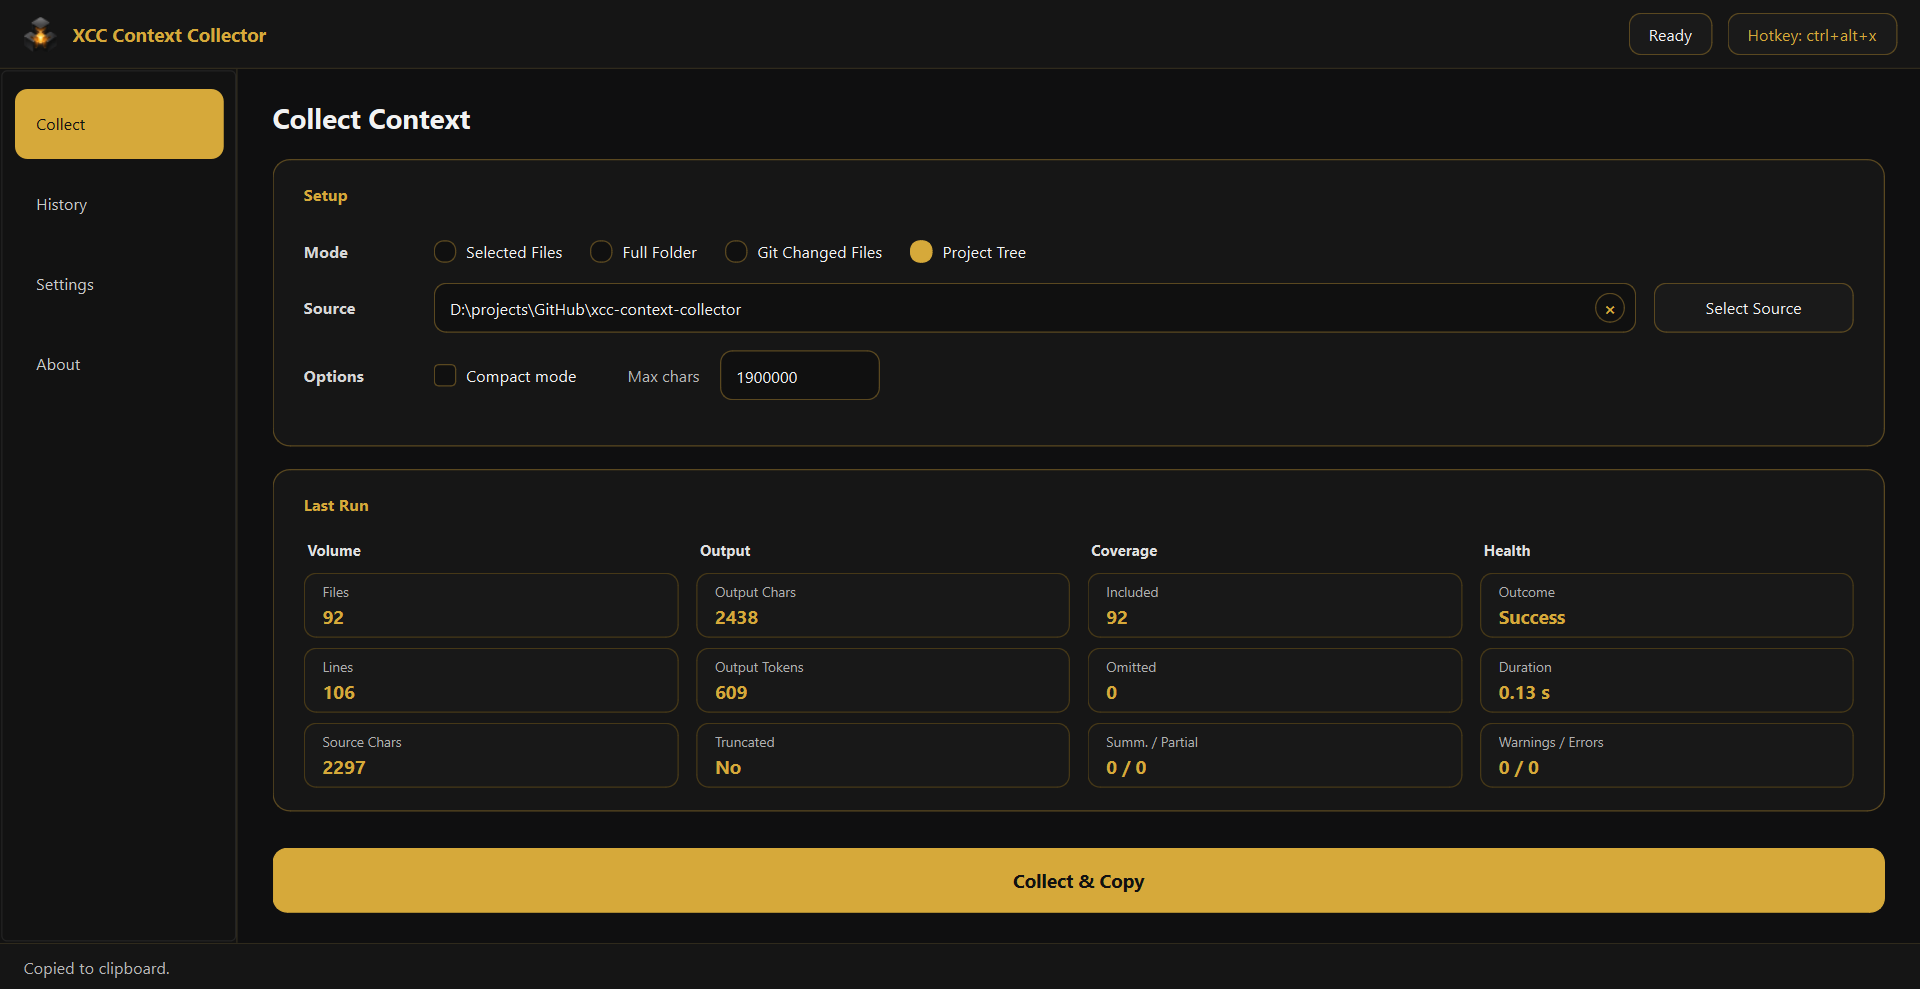
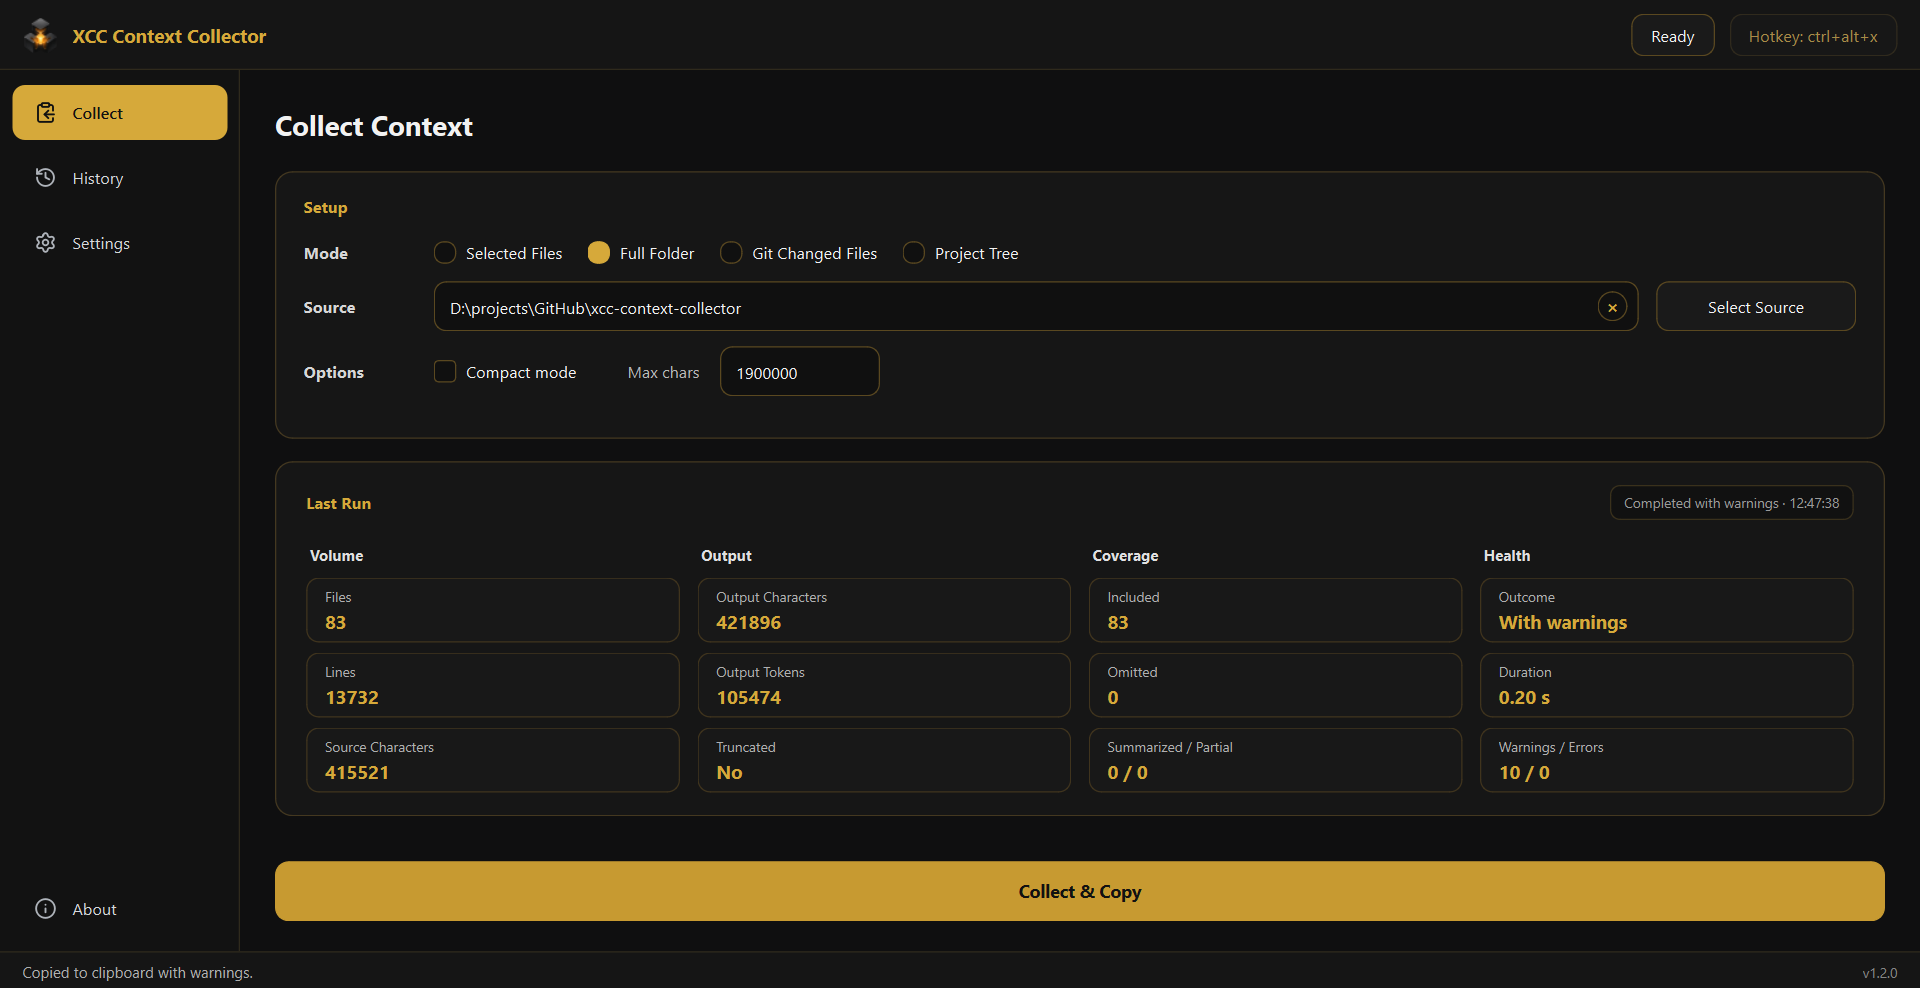
style: finalize balanced sidebar navigation

diff --git a/tests/test_repository_maturity.py b/tests/test_repository_maturity.py
@@ -58,8 +58,8 @@ def test_readme_contains_ci_release_and_screenshot_links() -> None:
 
     assert "actions/workflows/ci.yml/badge.svg" in readme
     assert "xcc-context-collector/releases" in readme
-    assert "docs/screenshots/xcc-collect.svg" in readme
-    assert "docs/screenshots/xcc-history.svg" in readme
+    assert "docs/screenshots/xcc-collect.png" in readme
+    assert "docs/screenshots/xcc-history.png" in readme
     assert "docs/PORTABLE_ZIP.md" in readme
 
 
